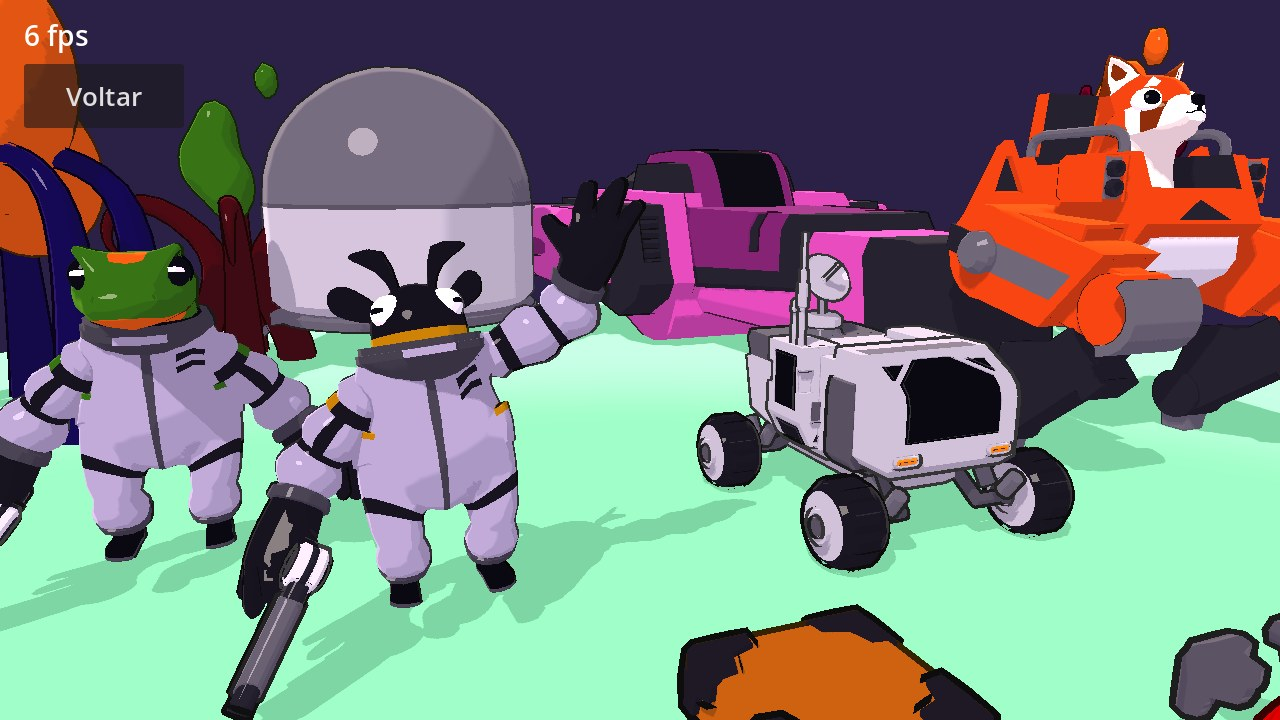
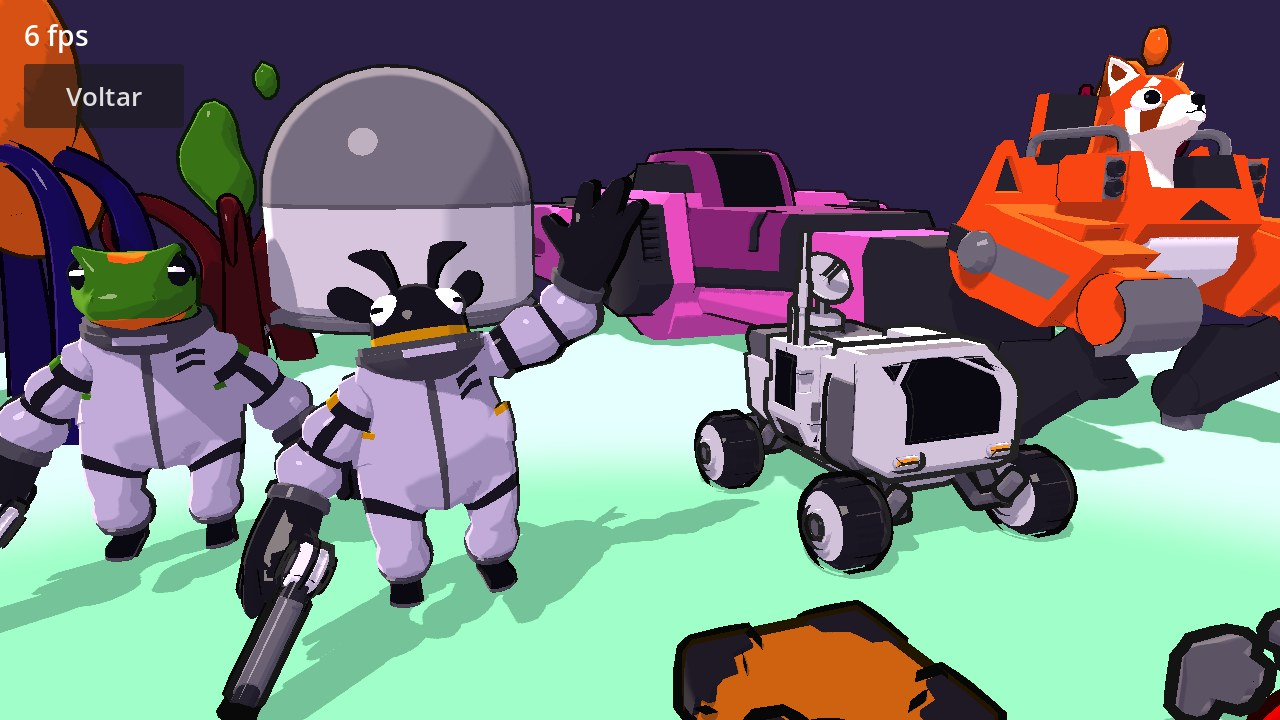
F0: look mais marcado (contorno mais grosso, sombras mais escuras, rim mais forte) e ícone da app
Ícone: Finn a acenar com uma encomenda num pequeno planeta, renderizado com o
cel-shading do jogo (tools/render_icon.gd + tools/compose_icon.py), com
versões adaptativas e monocromática para Android.

Refs #3

diff --git a/tools/compose_icon.py b/tools/compose_icon.py
@@ -1,0 +1,43 @@
+#!/usr/bin/env python3
+"""Compõe os ícones da app a partir do primeiro plano renderizado por tools/render_icon.gd.
+Uso: python3 tools/compose_icon.py <primeiro_plano.png> <pasta_saida>"""
+import random, sys
+from PIL import Image, ImageDraw
+
+fg = Image.open(sys.argv[1]).convert('RGBA')
+fg = fg.crop(fg.getbbox())
+OUT = sys.argv[2]
+
+def background(S):
+    bg = Image.new('RGB', (S, S)); px = bg.load()
+    top, bot = (54, 36, 92), (255, 150, 120)
+    for y in range(S):
+        t = (y / S) ** 1.3
+        c = tuple(int(top[i] * (1 - t) + bot[i] * t) for i in range(3))
+        for x in range(S): px[x, y] = c
+    d = ImageDraw.Draw(bg); rnd = random.Random(7)
+    for _ in range(int(S * 0.06)):
+        x, y = rnd.random() * S, rnd.random() * S * 0.55
+        r = max(1, S * rnd.choice([0.004, 0.006, 0.009]))
+        d.ellipse([x - r, y - r, x + r, y + r], fill=(255, 240, 214))
+    R, cx, cy, o = S * 0.62, S * 0.5, S * 1.30, S * 0.012
+    d.ellipse([cx - R - o, cy - R - o, cx + R + o, cy + R + o], fill=(40, 28, 60))
+    d.ellipse([cx - R, cy - R, cx + R, cy + R], fill=(143, 211, 160))
+    pr, px_, py, o = S * 0.07, S * 0.80, S * 0.20, S * 0.008
+    d.ellipse([px_ - pr - o, py - pr - o, px_ + pr + o, py + pr + o], fill=(40, 28, 60))
+    d.ellipse([px_ - pr, py - pr, px_ + pr, py + pr], fill=(255, 200, 87))
+    return bg
+
+def place(canvas, frac, yfrac):
+    S = canvas.size[0]; h = int(S * frac); w = int(fg.size[0] * h / fg.size[1])
+    canvas.alpha_composite(fg.resize((w, h), Image.LANCZOS), ((S - w) // 2, int(S * yfrac - h / 2)))
+    return canvas
+
+for S in (512, 192):
+    place(background(S).convert('RGBA'), 0.80, 0.54).save(f'{OUT}/icon_{S}.png')
+background(432).save(f'{OUT}/adaptive_background_432.png')
+fgc = place(Image.new('RGBA', (432, 432), (0, 0, 0, 0)), 0.56, 0.52)
+fgc.save(f'{OUT}/adaptive_foreground_432.png')
+mono = Image.new('RGBA', (432, 432), (0, 0, 0, 0)); mono.paste((255, 255, 255, 255), mask=fgc.split()[3])
+mono.save(f'{OUT}/adaptive_monochrome_432.png')
+print('ok')
